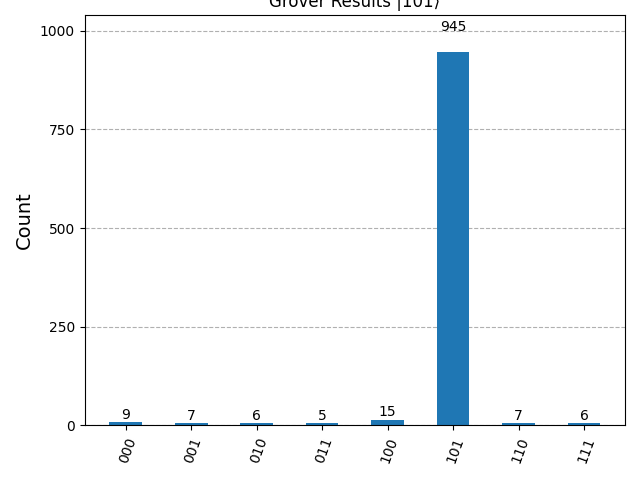
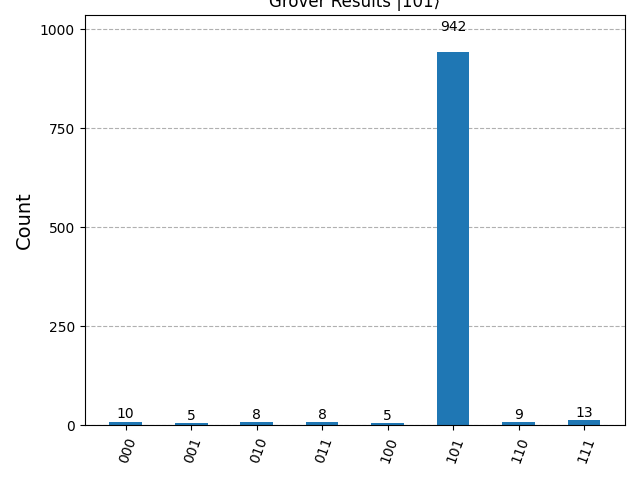
bonus

diff --git a/bonus/bernstein_vazirani.py b/bonus/bernstein_vazirani.py
@@ -1,0 +1,131 @@
+"""
+There is a secret bit string s hidden inside an oracle.
+The oracle computes f(x) = x · s (mod 2)
+which is the dot product of input x and secret s, result is 0 or 1.
+
+CLASSICAL: need n queries to find n-bit secret (one query per bit)
+QUANTUM:   need exactly 1 query always
+
+HOW IT WORKS:
+Same structure as Deutsch-Jozsa:
+  1. Ancilla in |-⟩ for phase kickback
+  2. H on all input qubits → superposition
+  3. Oracle → phase kickback encodes secret into phases
+  4. H on all input qubits → phases become amplitudes
+  5. Measure → result IS the secret string directly
+
+WHY IT WORKS:
+The oracle flips the phase of input x by (-1)^(x·s)
+After the final H gates, the only state with nonzero
+amplitude is exactly |s⟩ — the secret string itself.
+One measurement gives you the entire secret instantly.
+
+"""
+
+from qiskit import QuantumCircuit, QuantumRegister, ClassicalRegister, transpile
+from qiskit_aer import AerSimulator
+from qiskit.visualization import plot_histogram
+import matplotlib.pyplot as plt
+import os
+
+os.makedirs("results", exist_ok=True)
+
+def make_oracle(secret):
+    n = len(secret)
+
+    input_qubits = QuantumRegister(n, name='input')
+    ancilla      = QuantumRegister(1, name='ancilla')
+    qc           = QuantumCircuit(input_qubits, ancilla)
+
+    for i, bit in enumerate(reversed(secret)):
+        if bit == '1':
+            qc.cx(input_qubits[i], ancilla[0])
+
+    gate      = qc.to_gate()
+    gate.name = f"BV Oracle\n(s={secret})"
+    return gate
+
+def bernstein_vazirani(secret):
+    n = len(secret)
+
+    input_qubits = QuantumRegister(n, name='input')
+    ancilla      = QuantumRegister(1, name='ancilla')
+    cr           = ClassicalRegister(n, name='result')
+    circuit      = QuantumCircuit(input_qubits, ancilla, cr)
+
+    circuit.x(ancilla[0])
+    circuit.h(ancilla[0])
+
+    circuit.barrier()
+
+    for q in range(n):
+        circuit.h(input_qubits[q])
+
+    circuit.barrier()
+
+    oracle = make_oracle(secret)
+    circuit.append(oracle, list(input_qubits) + list(ancilla))
+
+    circuit.barrier()
+
+    for q in range(n):
+        circuit.h(input_qubits[q])
+
+    circuit.barrier()
+
+    for q in range(n):
+        circuit.measure(input_qubits[q], cr[q])
+
+    return circuit
+
+def run_bv(secret, shots=500):
+    print(f"\n{'='*40}")
+    print(f"Secret string : '{secret}'")
+    print(f"Length        : {len(secret)} bits")
+    print(f"Classical cost: {len(secret)} queries (one per bit)")
+    print(f"Quantum cost  : 1 query always")
+
+    circuit = bernstein_vazirani(secret)
+
+    print(f"\nCircuit:")
+    print(circuit)
+    circuit.draw('mpl')
+    plt.title(f"Bernstein-Vazirani — secret='{secret}'")
+    plt.savefig(f"results/bv_circuit_{secret}.png")
+    plt.show()
+
+    simulator = AerSimulator()
+    compiled  = transpile(circuit, simulator)
+    counts    = simulator.run(compiled, shots=shots).result().get_counts()
+
+    print(f"\nResults ({shots} shots):")
+    print(f"  Raw counts : {counts}")
+
+    top_result  = max(counts, key=counts.get)
+    top_prob    = counts[top_result] / shots * 100
+
+    result_readable = top_result[::-1]
+
+    print(f"  Top result : '{top_result}' → readable: '{result_readable}'")
+    print(f"  Confidence : {top_prob:.1f}%")
+    print(f"  Secret was : '{secret}'")
+
+    if result_readable == secret:
+        print(f"  Verdict    : SECRET FOUND ✓")
+    else:
+        print(f"  Verdict    : check bit ordering")
+
+    plot_histogram(counts)
+    plt.title(f"BV Results — secret='{secret}'")
+    plt.savefig(f"results/bv_histogram_{secret}.png")
+    plt.show()
+
+    return counts
+
+if __name__ == "__main__":
+
+    run_bv('101')
+    run_bv('111')
+    run_bv('000')
+    run_bv('10110')
+    run_bv('1')
